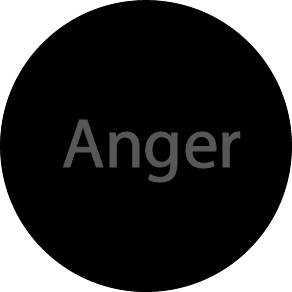
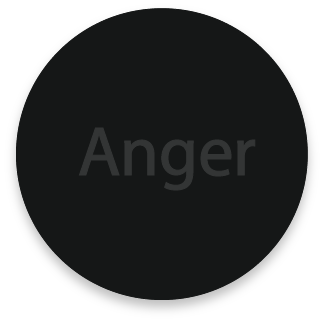
updating vibe buttons and adding home btn

Changed region(s): [[0.0, 0.0, 1.0, 1.0], [0.2158, 0.3699, 0.8322, 0.6473]]

diff --git a/object-meditation/style.css b/object-meditation/style.css
@@ -11,27 +11,66 @@ body {
   font-style: normal;
 }
 
-.vibe_buttons {
-  display: flex;
-  align-items: stretch;
-  position: fixed;
-  bottom: 1em;
-  right: 1em;
+.vibe_btns {
+  background-color: #555;
+  color: white;
+  float: left;
+  border: none;
+  outline: none;
+  cursor: pointer;
+  padding: 14px 16px;
+  font-size: 17px;
+  width: 24%;
+}
+
+.vibe_btns:hover {
+  background-color: #777;
+}
+
+#home {
+  width: 4%;
 }
 
 #shock {
-  width: 25%;
-  height: 25%;
+  background-color: #FB00CD ;
+  color: #2EFAEF;
+  font-weight: bold;
 }
 
 #anger {
-  width: 25%;
-  height: 25%;
+  background-color: #26272E;
+  color: #505050;
+  font-weight: bold;
 }
 
 #resigned {
-  width: 25%;
-  height: 25%;
+  background-color: #E7C39F;
+  color: #FFFFFF;
+  font-weight: bold;
+}
+
+#bliss_Ael {
+  background-color: #2EFAEF;
+  color: #FB6207;
+  font-weight: bold;
+}
+
+#bliss_Dor {
+  background-color: #EA0000;
+  color: #294ABD;
+  font-weight: bold;
+}
+
+#bliss_Man {
+background-color: #000000;
+color: #EA0000;
+font-weight: bold;
+}
+
+#bliss_Yre {
+background-color: #CFAD20;
+color: #A36CA7;
+font-weight: bold;
 }
 
 .home_screen body {
@@ -87,6 +126,7 @@ body {
 
 .characters_page a {
   color: #E6F1F9;
+  text-decoration: none;
 }
 
 .characters_page a:hover {
@@ -175,7 +215,7 @@ body {
 
 li {
   position: absolute;
-  @-webkit-transition: all 1s linear;
+  -webkit-transition: all 1s linear;
 }
 
 .aelin_profile body {
@@ -201,7 +241,7 @@ li {
   border: none;
   border-radius: 50%;
   margin: auto;
-  padding: 10%;
+  padding: 10px;
   background-color: #2EFAEF;
   color: #FFFFFF;
   box-shadow: 0% 10% 20% rgba(0, 0, 0, 0.1);
@@ -209,7 +249,7 @@ li {
   width: 150px;
   height: 150px;
   font-size: 65%;
-  transform: translate(425%, -75%);
+  transform: translate(500%, -75%);
   transition: .4s;
 }
 
@@ -234,7 +274,7 @@ li {
   color: #FFFFFF;
   font-size: 20px;
   text-align: center;
-  transform: translate(175%, -75%);
+  transform: translate(900px, -250px);
 }
 
 .dorian_profile body {
@@ -246,7 +286,7 @@ li {
 
 .dorian_profile img {
   position: relative;
-  top: 7em;
+  top: 8em;
   width: 11em;
   height: 13.5em;
 }
@@ -263,12 +303,12 @@ li {
   padding: 10px;
   background-color: #EA0000;
   color: #FFFFFF;
-  box-shadow: 0px 10px 20px rgba(0, 0, 0, 0.1);
+  box-shadow: 0% 10% 20% rgba(0, 0, 0, 0.1);
   cursor: pointer;
-  width: 150px;
-  height: 150px;
+  width: 160px;
+  height: 160px;
   font-size: 65%;
-  transform: translate(600px, -50px);
+  transform: translate(500%, -25%);
   transition: .4s;
 }
 
@@ -290,7 +330,7 @@ li {
   background-color: #CFAD20;
   box-shadow: 0px 10px 20px rgba(0, 0, 0, 0.5);
   width: 350px;
-  color: white;
+  color: #FFFFFF;
   font-size: 20px;
   text-align: center;
   transform: translate(900px, -250px);
@@ -327,7 +367,7 @@ li {
   width: 150px;
   height: 150px;
   font-size: 65%;
-  transform: translate(600px, -100px);
+  transform: translate(500%, -75%);
   transition: .4s;
 }
 
@@ -386,7 +426,7 @@ li {
   width: 150px;
   height: 150px;
   font-size: 65%;
-  transform: translate(600px, -50px);
+  transform: translate(500%, -50%);
   transition: .4s;
 }
 

diff --git a/object-meditation/script.js b/object-meditation/script.js
@@ -15,33 +15,48 @@ $elements.each(function(i) {
   });
 });
 
-$(document).ready(function() {
-
-  $("#shock").click(function() {
-    $("body").css({
-      "background-color": "blue"
-    });
+$("#bliss_Ael").click(function change() {
+  $("body").css({
+    "background-color": "#FB6207"
   });
-
-  $("#anger").click(function() {
-    $("body").css({
-      "background-color": "black"
-    });
-  });
-
-  $("#resigned").click(function() {
-    $("body").css({
-      "background-color": "white"
-    });
-  });
-
 });
 
-$("#page_turner").turn({
-		width: 500,
-		height: 300,
-		autoCenter: true
-	});
+$("#bliss_Dor").click(function() {
+  $("body").css({
+    "background-color": "#294ABD"
+  });
+});
+
+$("#bliss_Man").click(function() {
+  $("body").css({
+    "background-color": "#EA0000"
+  });
+});
+
+$("#bliss_Yre").click(function() {
+  $("body").css({
+    "background-color": "#A36CA7"
+  });
+});
+
+
+$("#shock").click(function() {
+  $("body").css({
+    "background-color": "blue"
+  });
+});
+
+$("#anger").click(function() {
+  $("body").css({
+    "background-color": "black"
+  });
+});
+
+$("#resigned").click(function() {
+  $("body").css({
+    "background-color": "white"
+  });
+});
 
 function showAelinPage ()  {
   document.getElementById('aelin_img'). className = "aelin_img_hide";

diff --git a/object-meditation/profile_pages/aelin.html b/object-meditation/profile_pages/aelin.html
@@ -5,18 +5,22 @@
   <script src="https://code.jquery.com/jquery-3.4.1.min.js" integrity="sha256-CSXorXvZcTkaix6Yvo6HppcZGetbYMGWSFlBw8HfCJo=" crossorigin="anonymous"></script>
   <meta name="viewport" content="width=device-width, initial-scale=1">
   <link rel="stylesheet" type="text/css" href="../style.css">
+  <link rel="stylesheet" href="https://cdnjs.cloudflare.com/ajax/libs/font-awesome/4.7.0/css/font-awesome.min.css">
   <title>Aeilin Galythinius</title>
 </head>
 
 <body>
 
-              <div class="vibe_buttons">
-                <img id="shock" src="../assets/shock.png">
-                <img id="anger" src="../assets/anger.png">
-                <img id="resigned" src="../assets/resigned.png">
-              </div>
+  <button class="vibe_btns" id="home"><i class="fa fa-home"></i></button>
 
-  <img src="../assets/aelin.png">
+  <button class="vibe_btns" id="bliss_Ael" onclick="change()">Bliss</button>
+  <button class="vibe_btns" id="shock" onclick="change()">Shock</button>
+  <button class="vibe_btns" id="anger" onclick="change()">Anger</button>
+  <button class="vibe_btns" id="resigned" onclick="change()">Resignation</button>
+
+  <div>
+    <img src="../assets/aelin.png">
+  </div>
 
     <ul>
       <li></li>

diff --git a/object-meditation/profile_pages/yrene.html b/object-meditation/profile_pages/yrene.html
@@ -5,16 +5,18 @@
   <script src="https://code.jquery.com/jquery-3.4.1.min.js" integrity="sha256-CSXorXvZcTkaix6Yvo6HppcZGetbYMGWSFlBw8HfCJo=" crossorigin="anonymous"></script>
   <meta name="viewport" content="width=device-width, initial-scale=1">
   <link rel="stylesheet" type="text/css" href="../style.css">
+  <link rel="stylesheet" href="https://cdnjs.cloudflare.com/ajax/libs/font-awesome/4.7.0/css/font-awesome.min.css">
   <title>Yrene Westfall</title>
 </head>
 
 <body>
 
-        <div class="vibe_buttons">
-          <img id="shock" src="../assets/shock.png">
-          <img id="anger" src="../assets/anger.png">
-          <img id="resigned" src="../assets/resigned.png">
-        </div>
+  <button class="vibe_btns" id="home"><i class="fa fa-home"></i></button>
+
+  <button class="vibe_btns" id="bliss_Yre" onclick="change()">Bliss</button>
+  <button class="vibe_btns" id="shock" onclick="change()">Shock</button>
+  <button class="vibe_btns" id="anger" onclick="change()">Anger</button>
+  <button class="vibe_btns" id="resigned" onclick="change()">Resignation</button>
 
   <img src="../assets/yrene.png">
 

diff --git a/object-meditation/profile_pages/dorian.html b/object-meditation/profile_pages/dorian.html
@@ -5,16 +5,18 @@
   <script src="https://code.jquery.com/jquery-3.4.1.min.js" integrity="sha256-CSXorXvZcTkaix6Yvo6HppcZGetbYMGWSFlBw8HfCJo=" crossorigin="anonymous"></script>
   <meta name="viewport" content="width=device-width, initial-scale=1">
   <link rel="stylesheet" type="text/css" href="../style.css">
+  <link rel="stylesheet" href="https://cdnjs.cloudflare.com/ajax/libs/font-awesome/4.7.0/css/font-awesome.min.css">
   <title>Dorian Havilliard</title>
 </head>
 
 <body>
 
-  <div class="vibe_buttons">
-    <img id="shock" src="../assets/shock.png">
-    <img id="anger" src="../assets/anger.png">
-    <img id="resigned" src="../assets/resigned.png">
-  </div>
+  <button class="vibe_btns" id="home"><i class="fa fa-home"></i></button>
+
+  <button class="vibe_btns" id="bliss_Dor" onclick="change()">Bliss</button>
+  <button class="vibe_btns" id="shock" onclick="change()">Shock</button>
+  <button class="vibe_btns" id="anger" onclick="change()">Anger</button>
+  <button class="vibe_btns" id="resigned" onclick="change()">Resignation</button>
 
   <img src="../assets/dorian.png">
 

diff --git a/object-meditation/profile_pages/manon.html b/object-meditation/profile_pages/manon.html
@@ -5,16 +5,18 @@
   <script src="https://code.jquery.com/jquery-3.4.1.min.js" integrity="sha256-CSXorXvZcTkaix6Yvo6HppcZGetbYMGWSFlBw8HfCJo=" crossorigin="anonymous"></script>
   <meta name="viewport" content="width=device-width, initial-scale=1">
   <link rel="stylesheet" type="text/css" href="../style.css">
+  <link rel="stylesheet" href="https://cdnjs.cloudflare.com/ajax/libs/font-awesome/4.7.0/css/font-awesome.min.css">
   <title>Manon Blackbeak</title>
 </head>
 
 <body>
 
-  <div class="vibe_buttons">
-    <img id="shock" src="../assets/shock.png">
-    <img id="anger" src="../assets/anger.png">
-    <img id="resigned" src="../assets/resigned.png">
-  </div>
+  <button class="vibe_btns" id="home"><i class="fa fa-home"></i></button>
+
+  <button class="vibe_btns" id="bliss_Man" onclick="change()">Bliss</button>
+  <button class="vibe_btns" id="shock" onclick="change()">Shock</button>
+  <button class="vibe_btns" id="anger" onclick="change()">Anger</button>
+  <button class="vibe_btns" id="resigned" onclick="change()">Resignation</button>
 
   <img src="../assets/manon.png">
 
